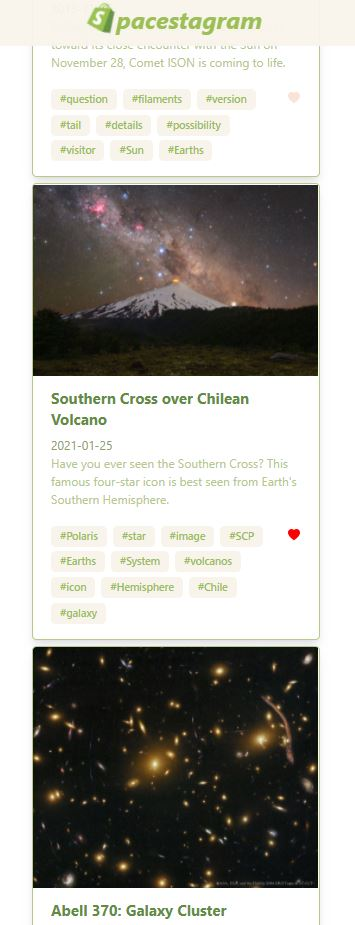
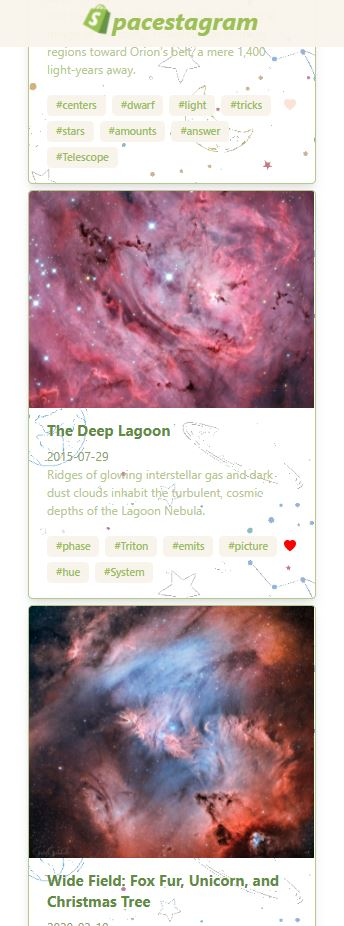
custom graphics

diff --git a/src/App.js b/src/App.js
@@ -12,7 +12,7 @@ function App() {
 
   const [term, setTerm] = useState('vacation')
   const [imageTags, setImageTags] = useState([])
-  const imageCount = 8
+  const imageCount = 50
 
   const removeVideos = (data) => {
     let lst = []

diff --git a/src/components/ImageCard.css b/src/components/ImageCard.css
@@ -1,3 +1,3 @@
 .cardBorderStyle {
-  background: url(../assets/back7.png);
+  background: url(../assets/custom-space-graphic.png);
 }
